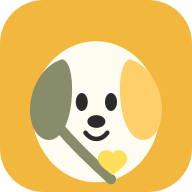
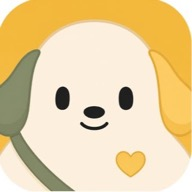
Use the real mascot artwork
PippyLogo rendered public/pippy-mark.svg, a hand-drawn SVG that stood in
for the mascot before the artwork existed. It approximated it closely
enough to pass, which is why it lasted. This replaces it with the actual
image everywhere the mark appears: sidebar, mobile header, login screen,
provider registration and the loading state.

The source is 356x356, so the PWA icons are derived from it rather than
the other way round. Two details that would otherwise bite:

- The icons were regenerated square. A straight resize of the source
  gave 192x191 and 512x510, because the original is 357x356; an icon
  that is not square is rejected or letterboxed depending on the
  platform. The source is cropped to 356x356 first.

- The 512 icon no longer declares purpose "maskable". Android crops a
  maskable icon to its own shape and only guarantees the centre 80%.
  The mascot fills its tile edge to edge -- both ears run into the
  corners -- so declaring it maskable would have shaved the ears off.
  Without it Android letterboxes the icon and keeps the whole dog.

The service worker cache goes to v6: it stores what it fetches, so the
previous icons are sitting in a cache on every installed device and only
a bump evicts them.

Also drops the netlify-dev entry from .claude/launch.json, missed when
Netlify was removed.

diff --git a/src/components/PippyLogo.jsx b/src/components/PippyLogo.jsx
@@ -1,19 +1,26 @@
-// The Pippy mark. The SVG carries its own brand tile and rounded corners, so
-// it drops in wherever the old yellow-square-plus-paw lockup was used.
+// The Pippy mascot — the real artwork, not an approximation.
+//
+// This used to render public/pippy-mark.svg, a hand-drawn SVG that stood in for
+// the mascot before the artwork existed. The source image carries its own brand
+// tile and its corners are baked in as white (it is a JPEG, so it has no alpha),
+// which is why the rounding below is not decoration: it clips those corners off.
 const SIZES = {
   sm: 'w-8 h-8 rounded-xl',
   md: 'w-9 h-9 rounded-xl',
   lg: 'w-12 h-12 rounded-2xl',
   xl: 'w-14 h-14 rounded-2xl',
+  hero: 'w-24 h-24 rounded-[28px]',
 }
 
 export default function PippyLogo({ size = 'lg', className = '' }) {
   return (
     <img
-      src="/pippy-mark.svg"
+      src="/pippy-mascot.png"
       alt=""
       aria-hidden="true"
-      className={`${SIZES[size] || SIZES.lg} flex-shrink-0 ${className}`}
+      width="356"
+      height="356"
+      className={`${SIZES[size] || SIZES.lg} flex-shrink-0 object-cover ${className}`}
     />
   )
 }

diff --git a/public/sw.js b/public/sw.js
@@ -3,7 +3,7 @@
 // Bump CACHE on any change to this file. The activate handler deletes every
 // cache whose name does not match, so a bump is what evicts stale entries.
 // It sat on v3 across a dozen deploys, which is half of why clients went stale.
-const CACHE = 'pippy-v5'
+const CACHE = 'pippy-v6'
 
 // ── Share target handoff ─────────────────────────────────────────────────────
 //

diff --git a/index.html b/index.html
@@ -2,7 +2,7 @@
 <html lang="en">
   <head>
     <meta charset="UTF-8" />
-    <link rel="icon" type="image/svg+xml" href="/pippy-mark.svg" />
+    <link rel="icon" type="image/png" href="/icon-192.png" />
     <meta name="viewport" content="width=device-width, initial-scale=1.0" />
     <title>Pippy — Pet Care</title>
     <link rel="preconnect" href="https://fonts.googleapis.com" />
